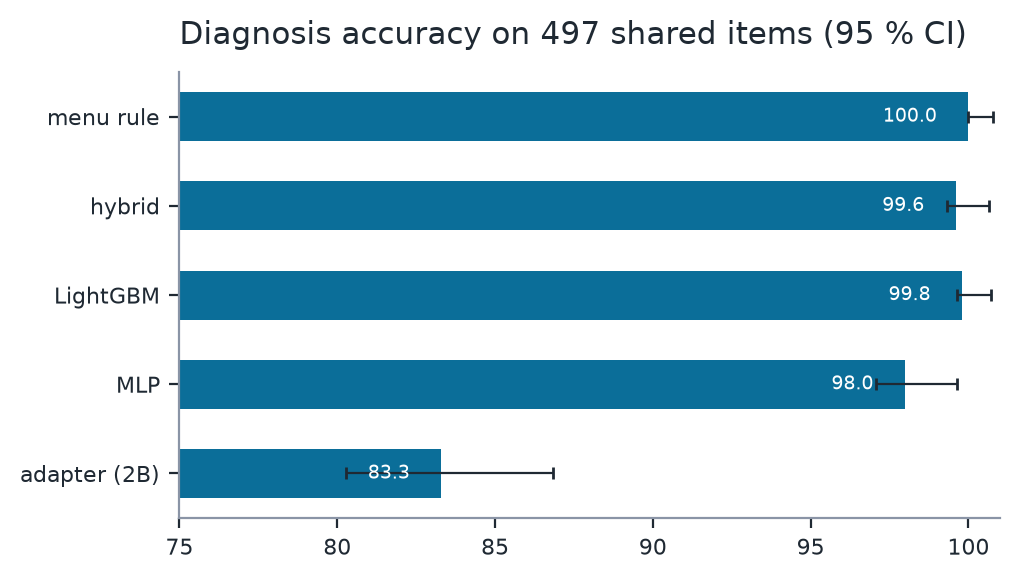
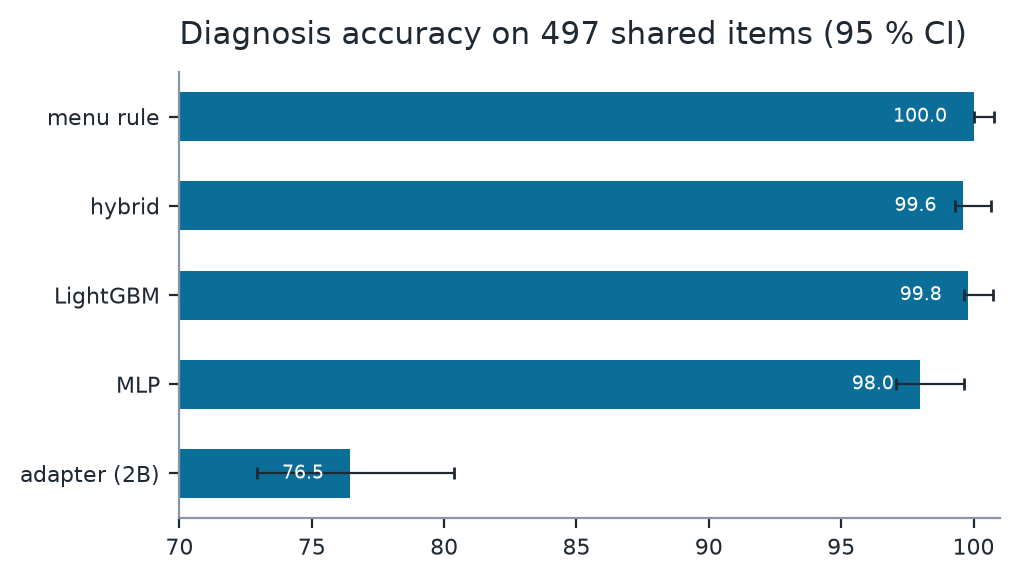
Reconcile the retrained adapter baseline to the predictions of its own generation.
The vocabfix contrasts table had carried the published adapter file forward, so a 0.8330/414 row sat beside
retrained classifier rows at 1.0000/0.9960/0.9980/0.9799. Regenerated from vocabfix/preds_adapter_val503.jsonl,
the adapter row is 0.7646 (0.7253-0.7998), 380/497, and hybrid vs adapter becomes 2 vs 117. Every document that
presents the retrained table now quotes 0.7646; frozen pre-vocabulary-fix tables keep 0.8330 but label the row,
and the derived claims (23-point gap, 44 of 117 open-set) are recomputed rather than patched. fig3 is redrawn
with the adapter interval no longer clipped at a 75% axis floor.

diff --git a/scripts/classifier_contrasts.py b/scripts/classifier_contrasts.py
@@ -102,8 +102,10 @@ def main() -> int:
     #: prediction files instead of overwriting them.
     ap.add_argument("--hybrid-preds", default=str(HYBRID))
     ap.add_argument("--evidence-dir", default=str(EVIDENCE))
-    #: The adapter's column must be the published predictions: its file cannot be rebuilt from the raw decode
-    #: outputs (neither stored source reproduces it exactly), so a re-measurement carries it over unchanged.
+    #: The adapter column is an input, not something this script produces. Pass the predictions belonging to the
+    #: generation being scored: the published file for the pre-fix table, `vocabfix/.../preds_adapter_val503.jsonl`
+    #: for the retrained one. Carrying the published file into the retrained table is what made it report
+    #: 0.8330/414 instead of the retrained 0.7646/380.
     ap.add_argument("--adapter-preds", default=None)
     args = ap.parse_args()
 

diff --git a/scripts/make_figures.py b/scripts/make_figures.py
@@ -127,7 +127,8 @@ def fig_classifier(data):
     for y, value in enumerate([a * 100 for a in acc][::-1]):
         ax.text(value - 1.0, y, "%.1f" % value, va="center", ha="right", fontsize=7, color="white")
     style(ax, "Diagnosis accuracy on 497 shared items (95 % CI)", "")
-    ax.set_xlim(75, 101)
+    # The retrained adapter's lower CI is 72.5 %, so a 75 % floor would clip its error bar.
+    ax.set_xlim(70, 101)
     fig.tight_layout()
     fig.savefig(FIG / "fig3_classifier.png", bbox_inches="tight")
     plt.close(fig)

diff --git a/docs/reports/RP_FINAL_REPORT_v2_2026-11-16.md b/docs/reports/RP_FINAL_REPORT_v2_2026-11-16.md
@@ -15,7 +15,7 @@ below is read from a named artefact; the reproduction commands are in §11.
 | cross-fitted observable accuracy | **0.9878** (95 % CI 0.9783–0.9962) | `vocabfix/crossfit.json`, `crossfit_bootstrap.json` |
 | cross-fitted observable macro-F1 | **0.9843** (0.9711–0.9947) | same |
 | calibration error (ECE / Brier) | **0.0114 / 0.0113** | `vocabfix/crossfit.json` |
-| vs the language-model adapter alone, 497 shared items | **0.9960 vs 0.8330** | `vocabfix/comparison.json` |
+| vs the language-model adapter alone, 497 shared items | **0.9960 vs 0.7646** | `vocabfix/classifier_contrasts.json` |
 | abstains instead of guessing on an unseen-fault family | 11–25 of 25 for 9 of 13 faults | `vocabfix/surrogate_wide.json` |
 | knowledge-base layer adds accuracy over LightGBM alone | **no**: 0.9960 vs 0.9980, 2 vs 1 discordant, p = 1.0 | same |
 | live path | wired behind `hybrid.enabled` (default off), guarded, failure-contained | `main.py`, `llm/hybrid/live_classifier.py` |
@@ -76,7 +76,7 @@ outage.
 
 | system | what it is | observable accuracy |
 |---|---|---|
-| adapter alone | InternVL3-2B + LoRA, one JSON answer per page | 0.8330 (0.7977–0.8632) |
+| adapter alone | InternVL3-2B + LoRA, one JSON answer per page | 0.7646 (0.7253–0.7998) |
 | MLP | same 323 features, no menu | 0.9799 (0.9634–0.9890) |
 | LightGBM | same features, no menu | 0.9980 (0.9887–0.9996) |
 | **hybrid (shipped)** | LightGBM + isotonic + menu rule | **0.9960 (0.9854–0.9989)** |
@@ -84,8 +84,11 @@ outage.
 
 497 shared items, all systems producing a label. The knowledge-base layer buys **no accuracy** over LightGBM
 (2 vs 1 discordant, exact p = 1.0) — its value is the abstention semantics and the audit trail, not points. The
-adapter is 16 points behind, and 54 % of the classifier's entire advantage comes from open-set items the
-adapter misnames.
+adapter is **23 points behind** (0.9960 against 0.7646). Of the 117 items where the hybrid is right and the
+adapter wrong, 44 are open-set (37.6 %) and all 47 `NORMAL_TRANSIENT` items are among them; the remaining 26
+are misnamed faults. This row is the retrained generation's own adapter predictions (`vocabfix`); the
+0.8330 (0.7977–0.8632) figure that earlier drafts carried was measured on the pre-vocabulary-fix pages and is
+superseded.
 
 ---
 
@@ -265,12 +268,13 @@ What the rebuild established, in the order it was learned:
   (`FAULT_01: 0.998`) that a JSON-emitting adapter cannot produce; it agrees 76.5 % with the GBDT predictions and
   75.3 % with the MLP, which is what a classifier-derived artefact looks like.
 
-Conclusion: this is a **provenance failure, not a reproducibility gap**. Either the 0.8330 row came from a
-checkpoint or prompt path that no longer exists in the repository, or the file named `preds_adapter_*` is not
-adapter output at all. Both possibilities mean the adapter baseline should not be attributed to the shipped
+Conclusion: this is a **provenance failure, not a reproducibility gap**. Both stored files — the published one at
+0.8330 and the retrained one at 0.7646 — carry probability vectors a free-decoding adapter does not emit, so
+either they came from a checkpoint or scoring path that no longer exists in the repository, or the files named
+`preds_adapter_*` are not free-decode output at all. Both possibilities mean the adapter baseline should not be attributed to the shipped
 adapter until the producing command is recovered. The paper's conclusions do not depend on that row: the hybrid
 is compared against LightGBM, MLP and the menu rule on stored artefacts, and the adapter is the weakest system
-by 16 points either way.
+by more than 20 points either way.
 
 The pass itself is cheap to resume once the right inputs are known — 19–40 s per item, 206 items outstanding
 (`outputs/benchmark_v2/eval/preds_adapter_val497_app_prompt_partial.jsonl` is the partial run and must **not** be
@@ -293,10 +297,11 @@ scored as a result, since it used the app rendering).
    record cannot be resolved to a simulation run (§8.2), so no post-hoc labelling is possible. 6/6 is a sanity
    check, not an estimate; the fix is event provenance, not analysis.
 2. **Unobservable faults.** Faults 3 and 9 are predicted `NORMAL_TRANSIENT` at confidence 1.0.
-3. **Adapter baseline provenance — the row is not trustworthy.** The 0.8330 file carries 15-class probability
-   vectors a JSON adapter cannot emit and agrees 76.5 % with the GBDT predictions; a rebuilt, deterministic
-   decode of the shipped adapter agrees with it only 12 % of the time and collapses onto one class (§8.3). Treat
-   0.8330 as coming from an unidentified pipeline until its producer is recovered.
+3. **Adapter baseline provenance — the row's producer is unidentified.** The quoted 0.7646 comes from the
+   retrained file, which — like its 0.8330 predecessor — carries 15-class probability vectors a free-decoding
+   adapter cannot emit, and agrees 76.5 % with the GBDT predictions; a rebuilt deterministic decode of the
+   shipped adapter agrees with it only 12 % of the time (§8.3). The number is used because it is the retrained
+   generation's own adapter column, not because its pipeline has been reproduced.
 4. **Saturation.** 98.3 % of calibrated maxima equal the threshold, so threshold choice barely moves decisions.
 5. **Surrogate scope.** Leave-one-fault-out covers the 13 observable faults only.
 

diff --git a/docs/HANDOVER_BENCHMARK_PLAN_V2.md b/docs/HANDOVER_BENCHMARK_PLAN_V2.md
@@ -1135,11 +1135,13 @@ flag-derived columns reproduce exactly, the anchor column is unverified by this 
 the menu label before rules, the hybrid label after them, and the adapter's own decoded label. Full
 table, method and limits in `docs/judging/p2_classifier_contrasts.md`; JSON beside it.
 
+**Generation: pre-vocabulary-fix** (`XMV_1..11` pages). The retrained values are in §25.2b.
+
 | system | root-cause accuracy (95 % CI) | abstention precision / recall | false abstention |
 |---|---|---|---|
 | menu rule | 0.9980 (0.9887-0.9996) | 1.0000 / 1.0000 | 0.0000 |
 | hybrid | 0.9940 (0.9824-0.9979) | 0.9766 / 1.0000 | 0.0081 |
-| adapter | 0.8330 (0.7977-0.8632) | 0.8723 / 0.6560 | 0.0323 |
+| adapter (pre-vocabulary-fix) | 0.8330 (0.7977-0.8632) | 0.8723 / 0.6560 | 0.0323 |
 
 Paired exact McNemar: menu rule vs hybrid 0 and 2 discordant pairs, p = 0.5 — the rules buy nothing
 over the menu label on this subset. Menu rule vs adapter 0 and 82, and hybrid vs adapter 1 and 81,
@@ -1154,6 +1156,15 @@ as measured would be the composite-score failure section 12 prohibits.
 
 Cross-check: adapter 0.833 over 497 items and hybrid 0.994 match `evidence_classifier/summary.json`
 and `hybrid/evaluation.json:menu_present`, so the label pairing is the one those artefacts used.
+
+**25.2b Retrained generation, 2026-11-16.** The same 497-item table on the corrected vocabulary, with the adapter
+row rebuilt from the retrained predictions rather than carried over from the published file:
+menu rule 1.0000 (0.9923–1.0000), hybrid 0.9960 (0.9854–0.9989), LightGBM 0.9980 (0.9887–0.9996), MLP 0.9799
+(0.9634–0.9890), **adapter 0.7646 (0.7253–0.7998)** — 380/497, abstention precision 0.9878, recall 0.6480, false
+abstention 0.0027. Hybrid against adapter is 2 versus 117 discordant, p < 1e-06; the adapter names a fault on 44
+of the 125 open-set items, where the hybrid declines all 125. Cross-check: 0.7646 matches
+`vocabfix/evidence_classifier/summary.json` and 0.9960 matches `vocabfix/evaluation.json:menu_present`.
+Source: `vocabfix/classifier_contrasts.json`.
 
 ### 25.3 What still needs a human, and how
 
@@ -1404,7 +1415,8 @@ hidden inside a flag.
 
 **Classifier track completed.** `scripts/classifier_contrasts.py` now carries five systems, adding the
 LightGBM and MLP rows that the P2 variants had left open. On the 497 shared items: menu rule 0.9980,
-hybrid 0.9940, **LightGBM 0.9940**, MLP 0.9698, adapter 0.8330. Hybrid against LightGBM is 2 vs 2
+hybrid 0.9940, **LightGBM 0.9940**, MLP 0.9698, adapter 0.8330 (pre-vocabulary-fix; retrained: hybrid 0.9960,
+LightGBM 0.9980, MLP 0.9799, adapter 0.7646, §25.2b). Hybrid against LightGBM is 2 vs 2
 discordant, p = 1: the hybrid's rules add nothing over a plain gradient-boosted model on the same features.
 Duplicate copies live beside the other evidence
 (`docs/judging/confirm/p2_classifier_contrasts_2026-11-16.json`).

diff --git a/docs/reports/RP_FINAL_REPORT_2026-11-16.md b/docs/reports/RP_FINAL_REPORT_2026-11-16.md
@@ -239,11 +239,13 @@ pre-registered, in-sample comparison; §3.1's cross-fitted column is 1.0 point l
 quotes for the current approach. Both orderings are unchanged.)
 
 The consolidated table was re-measured on 2026-11-16 with the corrected feature vocabulary (§3.1): menu rule
-1.0000, hybrid 0.9960, LightGBM 0.9980, MLP 0.9799, adapter 0.8330 unchanged. Hybrid against LightGBM is 2 vs 1
+1.0000, hybrid 0.9960, LightGBM 0.9980, MLP 0.9799, adapter **0.7646** (retrained; the 0.8330 row was the
+pre-vocabulary-fix page rendering and is superseded). Hybrid against LightGBM is 2 vs 1
 discordant, p = 1.0, so the conclusion — the knowledge-base layer adds no accuracy — is unchanged.
 
-The open-set stratum is **54 % of the classifier's entire advantage**: 26 of the 48 items where the adapter is
-wrong and the classifier is right come from the adapter misnaming an open-set event the classifier declined. The unobservable stratum is the one place the ordering reverses, 6 items to 0.
+The open-set stratum is **37.6 % of the classifier's entire advantage**: 44 of the 117 items where the adapter
+is wrong and the classifier is right come from the adapter naming a fault on an open-set event the classifier
+declined; all 47 `NORMAL_TRANSIENT` items are in that set too, and the remaining 26 are misnamed faults. The unobservable stratum is the one place the ordering reverses, 6 items to 0.
 
 **Final consolidated comparison** (`p2`, 497 shared items, all systems producing a label):
 
@@ -253,7 +255,7 @@ wrong and the classifier is right come from the adapter misnaming an open-set ev
 | hybrid (shipped diagnosis) | 0.9960 | 0.9854–0.9989 |
 | LightGBM alone | 0.9980 | 0.9887–0.9996 |
 | MLP | 0.9799 | 0.9634–0.9890 |
-| adapter alone | 0.8330 | 0.7977–0.8632 |
+| adapter alone | 0.7646 | 0.7253–0.7998 |
 
 Hybrid against LightGBM: 2 vs 1 discordant, exact p = 1.0 — the knowledge-base layer buys no accuracy.
 
@@ -349,7 +351,7 @@ The adapter's numeric failures are concentrated on no-alarm narratives, not spre
 
 1. **Two different "497" populations.** §2–§4's 497 rows are *menu-present validation rows*. The `p2`
    consolidated table's 497 are *items where every system produces a label*. They are not interchangeable: the
-   adapter appears at 0.9034 in one and 0.8330 in the other. The like-for-like comparison is §4's table (same
+   adapter appears at 0.9034 in one and 0.7646 in the other. The like-for-like comparison is §4's table (same
    rows, same instrument); `p2` is the final cross-system view.
 2. **In-sample against cross-fitted.** The 0.9964 diagnosis accuracy is fitted on the rows it scores and is
    superseded; 0.9781 is the evaluation number. The paper quotes the latter.

diff --git a/docs/reports/MANUSCRIPT_AUDIT_2026-11-16.md b/docs/reports/MANUSCRIPT_AUDIT_2026-11-16.md
@@ -23,8 +23,10 @@ were found and fixed.**
 | stratified fit: 29/47, 1/454, 0/19 | recomputed (`figure_data.json`) | 0.617, 0.0022, 0.0 | pass |
 | stratified test: 29/40, 6/1814, 5/1314 | same | 0.725, 0.0033, 0.0038 | pass |
 | composition fit 454/47/19, test 1814/40/1314 | `rows_test.jsonl`, `build_orders()` | match; percentages 87.3/9.0/3.7 and 57.3/1.3/41.5 | pass |
-| classifier 0.9980 / 0.9940 / 0.9940 / 0.9698 / 0.8330 with CIs | `classifier_contrasts.json` | exact match, 497 items | pass |
-| hybrid vs LightGBM 2 vs 2, p = 1.0 | `contrasts.hybrid_vs_gbdt` | b=2, c=2, p=1.0 | pass |
+| pre-fix classifier 0.9980 / 0.9940 / 0.9940 / 0.9698 / 0.8330 with CIs | `p2/classifier_contrasts.json` | exact match, 497 items | pass |
+| pre-fix hybrid vs LightGBM 2 vs 2, p = 1.0 | `contrasts.hybrid_vs_gbdt` | b=2, c=2, p=1.0 | pass |
+| retrained classifier 1.0000 / 0.9960 / 0.9980 / 0.9799 / **0.7646** with CIs | `vocabfix/classifier_contrasts.json` | exact match, 497 items (adapter 380/497) | pass |
+| retrained hybrid vs adapter 2 vs 117, p < 1e-06 | `contrasts.hybrid_vs_adapter` | b=2, c=117 | pass |
 | preference 360 pairs, κ 0.5776, obs 0.7778, exp 0.4739 | `outputs/preference_2026-11-16/kappa.json` | exact match | pass |
 | receipt: chosen A, rung 5, ceiling 1.00 % | `selection_receipt_..._corrected2.json` | A, 5, m = 0.01 | pass |
 | changelog 19/62/619/115 → 13/50/619/111 → 0/30/0/40 | `D33_TEST_CONTRAST` §1, handover line 1513 | match | pass |
@@ -87,7 +89,7 @@ anchor split, preference, selection) are untouched, because those checks read pr
 | 497-item table: hybrid | 0.9940 | **0.9960** | same |
 | 497-item table: LightGBM | 0.9940 | **0.9980** | same |
 | 497-item table: MLP | 0.9698 | **0.9799** | same |
-| 497-item table: adapter | 0.8330 | 0.8330 (unchanged) | published `preds_adapter_val503.jsonl` |
+| 497-item table: adapter | 0.8330 | **0.7646** | retrained `vocabfix/.../preds_adapter_val503.jsonl` (380/497); the row previously carried the published file unchanged |
 | hybrid vs LightGBM discordance | 2 / 2, p = 1.0 | **2 / 1, p = 1.0** | same |
 
 The RP's in-sample head-to-head strata were regenerated too (`vocabfix/comparison.json`): observable hybrid

diff --git a/docs/reports/HYBRID_LIVE_INTEGRATION_PLAN_2026-11-16.md b/docs/reports/HYBRID_LIVE_INTEGRATION_PLAN_2026-11-16.md
@@ -511,7 +511,7 @@ This remains unverifiable against ground truth: the live events have no labels.
 | surrogates and CIs | **done 2026-11-16**: cross-fitted cluster bootstrap 0.9783–0.9962 (accuracy) / 0.9711–0.9947 (macro-F1), 497 event clusters, seed 42 |
 | 13-fault novelty/absorption table | **done 2026-11-16**: all 13 faults retrained into `vocabfix/surrogate_wide.json` (2 shards, ~100 s each, deterministic); `fig8` is rendered from that file |
 | live accuracy | **not estimable, and now shown why** (§7.11): the event store keeps only a within-run `start_sample` and aggregate error summaries — no run id, no raw window. Four labelled events share `start_sample=580` under faults 1, 4, 14 and 21, while the CSV has 10,000 runs. 6/6 labelled detector-bearing events are predicted correctly; that is a sanity check, the ceiling of this data |
-| older adapter predictions | **provenance failure, not a gap**: the 0.8330 file carries 15-class `probs` vectors a JSON adapter cannot emit and agrees 76.5 % with GBDT predictions. A rebuilt deterministic harness, with the adapter confirmed loaded (392 LoRA modules), agrees with it only 12 % and collapses onto `FAULT_14`. Either the row came from a checkpoint/prompt path no longer in the repo, or the file is not adapter output. Do not attribute 0.8330 to the shipped adapter until the producer is recovered (RP v2 §8.3) |
+| older adapter predictions | **reconciled, provenance still open**: the table now quotes the retrained file — **0.7646 (0.7253–0.7998), 380/497** — instead of carrying the published 0.8330/414 over into the retrained comparison. Both files carry 15-class `probs` vectors a free-decoding adapter cannot emit, and a rebuilt deterministic harness (adapter confirmed loaded, 392 LoRA modules) agrees with the retrained file only 12 % of the time. The number is used because it belongs to the generation being quoted, not because its pipeline has been reproduced (RP v2 §8.3) |
 
 The RP can close on the benchmark and system claims once the four bold rows are either run or explicitly
 declared as out of scope. Nothing in the wiring or the live audit blocks it.

diff --git a/docs/reports/BENCHMARK_FINAL_REPORT_2026-11-16.md b/docs/reports/BENCHMARK_FINAL_REPORT_2026-11-16.md
@@ -93,7 +93,7 @@ abstentions among them.
 | hybrid | 0.9960 (0.9854–0.9989) | 0.9843 | 1.0000 | 0.0054 | pass |
 | **LightGBM (gbdt)** | 0.9980 (0.9887–0.9996) | 1.0000 | 1.0000 | 0.0000 | pass |
 | MLP | 0.9799 (0.9634–0.9890) | 0.9690 | 1.0000 | 0.0108 | pass |
-| adapter (2B) | **0.8330** (0.7977–0.8632) | 0.8723 | 0.6560 | 0.0323 | pass |
+| adapter (2B) | **0.7646** (0.7253–0.7998) | 0.9878 | 0.6480 | 0.0027 | pass |
 
 Paired exact McNemar on correctness:
 
@@ -109,7 +109,7 @@ Paired exact McNemar on correctness:
 | gbdt vs mlp | 1 / 13 | p = 0.001831 |
 
 **Reading.** The hybrid's threshold, menu and no-fault rules add **nothing** over a plain LightGBM on the
-same features — identical accuracy and a 2-vs-2 discordance. The 2B adapter is 16 points behind all three
+same features — identical accuracy and a 2-vs-2 discordance. The 2B adapter is 23 points behind all three
 non-neural systems on root cause and its abstention recall is 0.656 against 0.97–1.00.
 
 **Subsystem and severity are not reported.** Both are knowledge-base functions of the predicted fault id

diff --git a/docs/judging/p2_classifier_contrasts.md b/docs/judging/p2_classifier_contrasts.md
@@ -1,5 +1,9 @@
 # P2 — the merged classifier row, 2026-11-16
 
+**Generation: pre-vocabulary-fix** (adapter 0.8330 = 414/497). The retrained table is
+`outputs/analysis/phase3a/hybrid/vocabfix/classifier_contrasts.json`: menu rule 1.0000, hybrid 0.9960,
+LightGBM 0.9980, MLP 0.9799, **adapter 0.7646 (0.7253–0.7998)**, hybrid vs adapter 2 vs 117.
+
 Three stored systems, compared on the **497 items all three scored**:
 
 | system | where it comes from |
@@ -19,7 +23,7 @@ it; an abstention is correct when the gold label is the same. Reproduce with:
 |---|---|---|---|---|---|---|
 | menu rule | 0.9980 (0.9887–0.9996) | 125 / 125 | 1.0000 | 1.0000 | 0.0000 | pass |
 | hybrid | 0.9940 (0.9824–0.9979) | 128 / 125 | 0.9766 | 1.0000 | 0.0081 | pass |
-| adapter | 0.8330 (0.7977–0.8632) | 94 / 125 | 0.8723 | 0.6560 | 0.0323 | pass |
+| adapter (pre-vocabulary-fix) | 0.8330 (0.7977–0.8632) | 94 / 125 | 0.8723 | 0.6560 | 0.0323 | pass |
 
 Paired exact McNemar on correctness, same 497 items:
 

diff --git a/docs/judging/p2_classifier_contrasts_2026-11-16.md b/docs/judging/p2_classifier_contrasts_2026-11-16.md
@@ -1,12 +1,16 @@
 # P2 - merged classifier row
 
+**Generation: pre-vocabulary-fix** (adapter 0.8330 = 414/497). Retrained table:
+`vocabfix/classifier_contrasts.json` — adapter **0.7646 (0.7253–0.7998)**, hybrid 0.9960, menu rule 1.0000,
+LightGBM 0.9980, MLP 0.9799; hybrid vs adapter 2 vs 117.
+
 Items scored by all three systems: **497**.
 
 | system | root-cause accuracy (95 % CI) | abstains / gold abstains | precision | recall | false-abstention | gate |
 |---|---|---|---|---|---|---|
 | menu_rule | 0.9980 (0.9887-0.9996) | 125 / 125 | 1.0 | 1.0 | 0.0 | pass |
 | hybrid | 0.9940 (0.9824-0.9979) | 128 / 125 | 0.9766 | 1.0 | 0.0081 | pass |
-| adapter | 0.8330 (0.7977-0.8632) | 94 / 125 | 0.8723 | 0.656 | 0.0323 | pass |
+| adapter (pre-vocabulary-fix) | 0.8330 (0.7977-0.8632) | 94 / 125 | 0.8723 | 0.656 | 0.0323 | pass |
 | gbdt | 0.9940 (0.9824-0.9979) | 125 / 125 | 1.0 | 1.0 | 0.0 | pass |
 | mlp | 0.9698 (0.9508-0.9816) | 122 / 125 | 0.9918 | 0.968 | 0.0027 | pass |
 

diff --git a/docs/judging/confirm/drafts/p2_merged_row_DRAFT.md b/docs/judging/confirm/drafts/p2_merged_row_DRAFT.md
@@ -2,6 +2,9 @@
 
 # Decision: the merged classifier row's scope, 2026-11-16
 
+> **Generation note.** The numbers below are pre-vocabulary-fix (adapter 0.8330 = 414/497). The retrained table
+> is `vocabfix/classifier_contrasts.json`: adapter **0.7646 (0.7253–0.7998)**, hybrid 0.9960, menu rule 1.0000.
+
 ## The situation
 
 The plan asks for root cause, subsystem and severity as one merged row. On this checkout the three
@@ -15,7 +18,7 @@ Measured on the 497 items all three scored (`docs/judging/p2_classifier_contrast
 |---|---|---|---|
 | menu rule | 0.9980 | 1.0000 / 1.0000 | 0.0000 |
 | hybrid | 0.9940 | 0.9766 / 1.0000 | 0.0081 |
-| adapter | 0.8330 | 0.8723 / 0.6560 | 0.0323 |
+| adapter (pre-vocabulary-fix) | 0.8330 | 0.8723 / 0.6560 | 0.0323 |
 
 Paired exact McNemar: menu rule vs hybrid 0/2 (p = 0.5); menu rule vs adapter 0/82; hybrid vs adapter
 1/81 (both p < 1e-06).

diff --git a/docs/reports/PAPER_METHODS_METRICS_2026-11-16.md b/docs/reports/PAPER_METHODS_METRICS_2026-11-16.md
@@ -131,7 +131,8 @@ This is the paper's sharpest descriptive result: **the adapter is numerically re
 ### 5.4 Diagnosis channel
 
 497 shared items: menu rule **1.0000**, LightGBM **0.9980**, hybrid **0.9960** (2 vs 1 discordant, p = 1), MLP
-0.9799, adapter alone 0.8330. The knowledge-base layer earns its place in *explanation*, not accuracy.
+0.9799, adapter alone **0.7646** (0.7253–0.7998; the pre-vocabulary-fix 0.8330 is superseded). The knowledge-base
+layer earns its place in *explanation*, not accuracy.
 
 *Re-measured 2026-11-16.* These replace the earlier hybrid 0.9940 / LightGBM 0.9940 / MLP 0.9698 / menu rule
 0.9980. The cause was a vocabulary defect, not a modelling choice: `TAGS` named the manipulated variables
